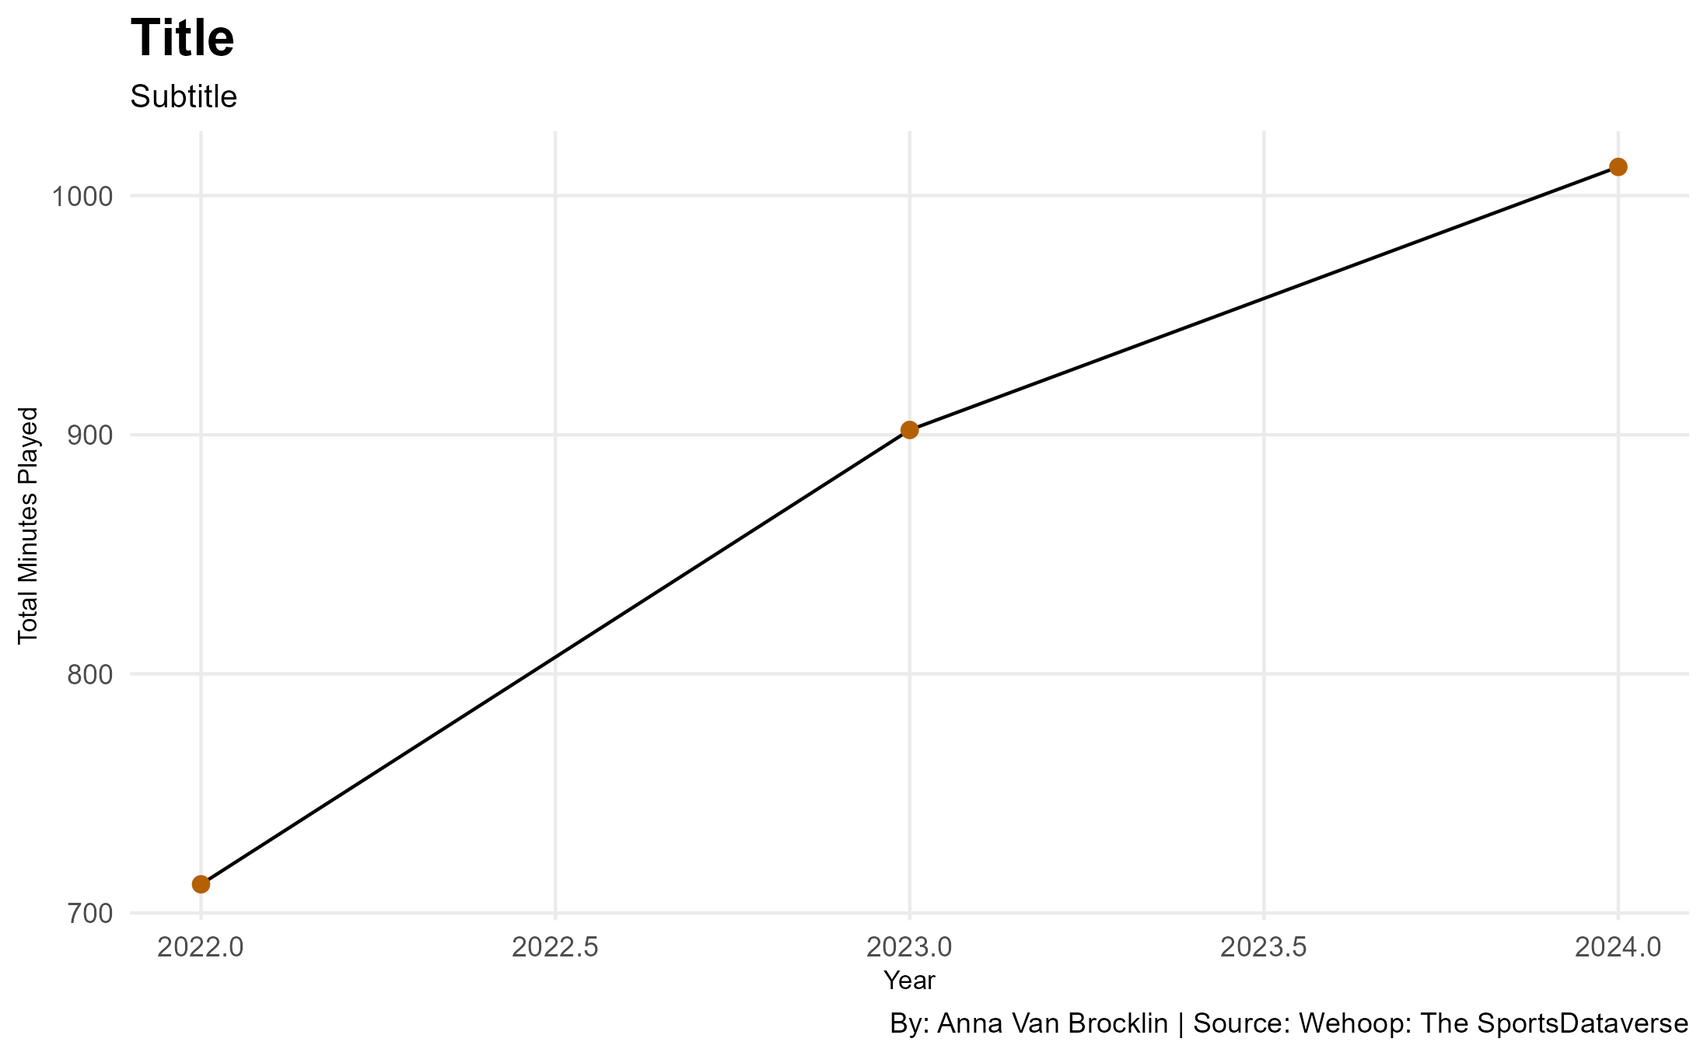
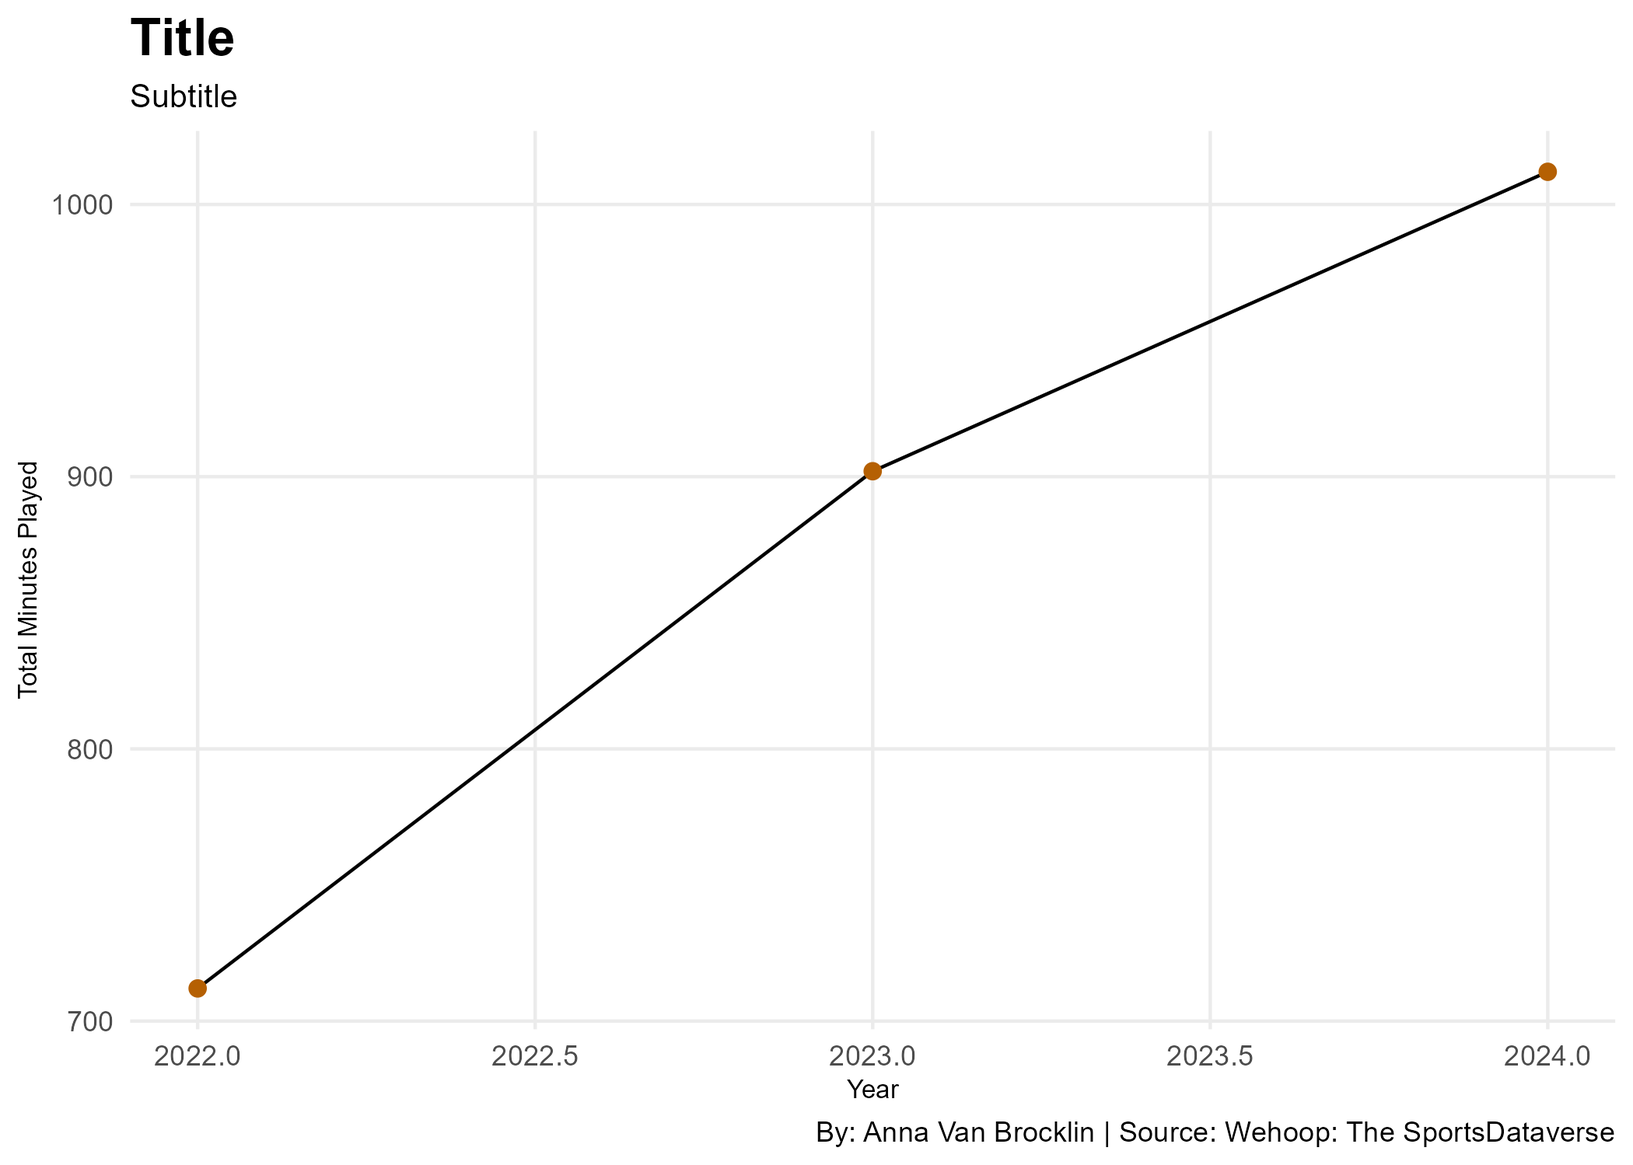
updates

diff --git a/posts/alexis-markowski-performance-nebraska-basketball/index.html b/posts/alexis-markowski-performance-nebraska-basketball/index.html
@@ -196,28 +196,167 @@ pre > code.sourceCode > span > a:first-child::before { text-decoration: underlin
 
 
 
-<div class="cell">
-<details class="code-fold">
-<summary>Code</summary>
-<div class="sourceCode cell-code" id="cb1"><pre class="sourceCode r code-with-copy"><code class="sourceCode r"><span id="cb1-1"><a href="#cb1-1" aria-hidden="true" tabindex="-1"></a><span class="fu">library</span>(tidyverse)</span></code><button title="Copy to Clipboard" class="code-copy-button"><i class="bi"></i></button></pre></div>
-</details>
-</div>
-<div class="cell">
-<details class="code-fold">
-<summary>Code</summary>
-<div class="sourceCode cell-code" id="cb2"><pre class="sourceCode r code-with-copy"><code class="sourceCode r"><span id="cb2-1"><a href="#cb2-1" aria-hidden="true" tabindex="-1"></a><span class="co">#data here &lt;- read_csv("")</span></span></code><button title="Copy to Clipboard" class="code-copy-button"><i class="bi"></i></button></pre></div>
-</details>
-</div>
 <p>Here is some story text.</p>
 <div class="cell">
 <details class="code-fold">
 <summary>Code</summary>
-<div class="sourceCode cell-code" id="cb3"><pre class="sourceCode r code-with-copy"><code class="sourceCode r"><span id="cb3-1"><a href="#cb3-1" aria-hidden="true" tabindex="-1"></a><span class="co">#first graphic here</span></span>
-<span id="cb3-2"><a href="#cb3-2" aria-hidden="true" tabindex="-1"></a></span>
-<span id="cb3-3"><a href="#cb3-3" aria-hidden="true" tabindex="-1"></a><span class="fu">ggsave</span>(<span class="st">"image.png"</span>)</span></code><button title="Copy to Clipboard" class="code-copy-button"><i class="bi"></i></button></pre></div>
+<div class="sourceCode cell-code" id="cb1"><pre class="sourceCode r code-with-copy"><code class="sourceCode r"><span id="cb1-1"><a href="#cb1-1" aria-hidden="true" tabindex="-1"></a><span class="fu">library</span>(tidyverse)</span>
+<span id="cb1-2"><a href="#cb1-2" aria-hidden="true" tabindex="-1"></a><span class="fu">library</span>(wehoop)</span></code><button title="Copy to Clipboard" class="code-copy-button"><i class="bi"></i></button></pre></div>
 </details>
 </div>
-<p>More writing here.</p>
+<div class="cell">
+<details class="code-fold">
+<summary>Code</summary>
+<div class="sourceCode cell-code" id="cb2"><pre class="sourceCode r code-with-copy"><code class="sourceCode r"><span id="cb2-1"><a href="#cb2-1" aria-hidden="true" tabindex="-1"></a>markowski_id <span class="ot">&lt;-</span> <span class="dv">4899057</span>  </span>
+<span id="cb2-2"><a href="#cb2-2" aria-hidden="true" tabindex="-1"></a></span>
+<span id="cb2-3"><a href="#cb2-3" aria-hidden="true" tabindex="-1"></a>get_markowski_stats <span class="ot">&lt;-</span> <span class="cf">function</span>(year, season_type) {</span>
+<span id="cb2-4"><a href="#cb2-4" aria-hidden="true" tabindex="-1"></a>  <span class="fu">espn_wbb_player_stats</span>(<span class="at">athlete_id =</span> markowski_id, <span class="at">year =</span> year, <span class="at">season_type =</span> season_type, <span class="at">total =</span> <span class="cn">TRUE</span>)</span>
+<span id="cb2-5"><a href="#cb2-5" aria-hidden="true" tabindex="-1"></a>}</span>
+<span id="cb2-6"><a href="#cb2-6" aria-hidden="true" tabindex="-1"></a></span>
+<span id="cb2-7"><a href="#cb2-7" aria-hidden="true" tabindex="-1"></a>markowski_stats_2022 <span class="ot">&lt;-</span> <span class="fu">get_markowski_stats</span>(<span class="dv">2022</span>, <span class="st">"regular"</span>)</span>
+<span id="cb2-8"><a href="#cb2-8" aria-hidden="true" tabindex="-1"></a>markowski_stats_2023 <span class="ot">&lt;-</span> <span class="fu">get_markowski_stats</span>(<span class="dv">2023</span>, <span class="st">"regular"</span>)</span>
+<span id="cb2-9"><a href="#cb2-9" aria-hidden="true" tabindex="-1"></a>markowski_stats_2024 <span class="ot">&lt;-</span> <span class="fu">get_markowski_stats</span>(<span class="dv">2024</span>, <span class="st">"regular"</span>)</span>
+<span id="cb2-10"><a href="#cb2-10" aria-hidden="true" tabindex="-1"></a></span>
+<span id="cb2-11"><a href="#cb2-11" aria-hidden="true" tabindex="-1"></a>markowski_all_stats <span class="ot">&lt;-</span> <span class="fu">rbind</span>(markowski_stats_2022, markowski_stats_2023, markowski_stats_2024)</span>
+<span id="cb2-12"><a href="#cb2-12" aria-hidden="true" tabindex="-1"></a></span>
+<span id="cb2-13"><a href="#cb2-13" aria-hidden="true" tabindex="-1"></a>markowski_all_stats<span class="sc">$</span>year <span class="ot">&lt;-</span> <span class="fu">c</span>(<span class="fu">rep</span>(<span class="dv">2022</span>, <span class="fu">nrow</span>(markowski_stats_2022)),</span>
+<span id="cb2-14"><a href="#cb2-14" aria-hidden="true" tabindex="-1"></a>                              <span class="fu">rep</span>(<span class="dv">2023</span>, <span class="fu">nrow</span>(markowski_stats_2023)),</span>
+<span id="cb2-15"><a href="#cb2-15" aria-hidden="true" tabindex="-1"></a>                              <span class="fu">rep</span>(<span class="dv">2024</span>, <span class="fu">nrow</span>(markowski_stats_2024)))</span></code><button title="Copy to Clipboard" class="code-copy-button"><i class="bi"></i></button></pre></div>
+</details>
+</div>
+<div class="cell">
+<details class="code-fold">
+<summary>Code</summary>
+<div class="sourceCode cell-code" id="cb3"><pre class="sourceCode r code-with-copy"><code class="sourceCode r"><span id="cb3-1"><a href="#cb3-1" aria-hidden="true" tabindex="-1"></a><span class="fu">ggplot</span>(markowski_all_stats, <span class="fu">aes</span>(<span class="at">x =</span> year, <span class="at">y =</span> general_minutes)) <span class="sc">+</span></span>
+<span id="cb3-2"><a href="#cb3-2" aria-hidden="true" tabindex="-1"></a>  <span class="fu">geom_line</span>() <span class="sc">+</span></span>
+<span id="cb3-3"><a href="#cb3-3" aria-hidden="true" tabindex="-1"></a>  <span class="fu">geom_point</span>(<span class="at">size=</span><span class="dv">2</span>, <span class="at">color=</span><span class="st">"#B56003"</span>) <span class="sc">+</span></span>
+<span id="cb3-4"><a href="#cb3-4" aria-hidden="true" tabindex="-1"></a>  <span class="fu">labs</span>(<span class="at">x =</span> <span class="st">"Year"</span>, <span class="at">y =</span> <span class="st">"Total Minutes Played"</span>) <span class="sc">+</span></span>
+<span id="cb3-5"><a href="#cb3-5" aria-hidden="true" tabindex="-1"></a>  <span class="fu">labs</span>(</span>
+<span id="cb3-6"><a href="#cb3-6" aria-hidden="true" tabindex="-1"></a>    <span class="at">title =</span> <span class="st">"Title"</span>,</span>
+<span id="cb3-7"><a href="#cb3-7" aria-hidden="true" tabindex="-1"></a>    <span class="at">subtitle =</span> <span class="st">"Subtitle"</span>,</span>
+<span id="cb3-8"><a href="#cb3-8" aria-hidden="true" tabindex="-1"></a>    <span class="at">caption =</span> <span class="st">"By: Anna Van Brocklin | Source: Wehoop: The SportsDataverse"</span>,</span>
+<span id="cb3-9"><a href="#cb3-9" aria-hidden="true" tabindex="-1"></a>  ) <span class="sc">+</span></span>
+<span id="cb3-10"><a href="#cb3-10" aria-hidden="true" tabindex="-1"></a>  <span class="fu">theme_minimal</span>() <span class="sc">+</span></span>
+<span id="cb3-11"><a href="#cb3-11" aria-hidden="true" tabindex="-1"></a>  <span class="fu">theme</span>(</span>
+<span id="cb3-12"><a href="#cb3-12" aria-hidden="true" tabindex="-1"></a>    <span class="at">plot.title =</span> <span class="fu">element_text</span>(<span class="at">size =</span> <span class="dv">16</span>, <span class="at">face =</span> <span class="st">"bold"</span>),</span>
+<span id="cb3-13"><a href="#cb3-13" aria-hidden="true" tabindex="-1"></a>    <span class="at">axis.title =</span> <span class="fu">element_text</span>(<span class="at">size =</span> <span class="dv">8</span>),</span>
+<span id="cb3-14"><a href="#cb3-14" aria-hidden="true" tabindex="-1"></a>    <span class="at">plot.subtitle =</span> <span class="fu">element_text</span>(<span class="at">size =</span> <span class="dv">10</span>),</span>
+<span id="cb3-15"><a href="#cb3-15" aria-hidden="true" tabindex="-1"></a>    <span class="at">panel.grid.minor =</span> <span class="fu">element_blank</span>()</span>
+<span id="cb3-16"><a href="#cb3-16" aria-hidden="true" tabindex="-1"></a>  )</span></code><button title="Copy to Clipboard" class="code-copy-button"><i class="bi"></i></button></pre></div>
+</details>
+<div class="cell-output-display">
+<div>
+<figure class="figure">
+<p><img src="index_files/figure-html/unnamed-chunk-3-1.png" class="img-fluid figure-img" width="672"></p>
+</figure>
+</div>
+</div>
+<details class="code-fold">
+<summary>Code</summary>
+<div class="sourceCode cell-code" id="cb4"><pre class="sourceCode r code-with-copy"><code class="sourceCode r"><span id="cb4-1"><a href="#cb4-1" aria-hidden="true" tabindex="-1"></a><span class="fu">ggsave</span>(<span class="st">"image.png"</span>)</span>
+<span id="cb4-2"><a href="#cb4-2" aria-hidden="true" tabindex="-1"></a><span class="co">#| message: false</span></span>
+<span id="cb4-3"><a href="#cb4-3" aria-hidden="true" tabindex="-1"></a><span class="co">#| warning: false</span></span></code><button title="Copy to Clipboard" class="code-copy-button"><i class="bi"></i></button></pre></div>
+</details>
+</div>
+<div class="cell">
+<details class="code-fold">
+<summary>Code</summary>
+<div class="sourceCode cell-code" id="cb5"><pre class="sourceCode r code-with-copy"><code class="sourceCode r"><span id="cb5-1"><a href="#cb5-1" aria-hidden="true" tabindex="-1"></a><span class="fu">ggplot</span>(markowski_all_stats, <span class="fu">aes</span>(<span class="at">x =</span> year, <span class="at">y =</span> offensive_points)) <span class="sc">+</span></span>
+<span id="cb5-2"><a href="#cb5-2" aria-hidden="true" tabindex="-1"></a>  <span class="fu">geom_line</span>() <span class="sc">+</span></span>
+<span id="cb5-3"><a href="#cb5-3" aria-hidden="true" tabindex="-1"></a>  <span class="fu">geom_point</span>(<span class="at">size=</span><span class="dv">2</span>, <span class="at">color=</span><span class="st">"#B56003"</span>) <span class="sc">+</span></span>
+<span id="cb5-4"><a href="#cb5-4" aria-hidden="true" tabindex="-1"></a>  <span class="fu">labs</span>(<span class="at">x =</span> <span class="st">"Year"</span>, <span class="at">y =</span> <span class="st">"Total Points Scored"</span>) <span class="sc">+</span></span>
+<span id="cb5-5"><a href="#cb5-5" aria-hidden="true" tabindex="-1"></a>  <span class="fu">labs</span>(</span>
+<span id="cb5-6"><a href="#cb5-6" aria-hidden="true" tabindex="-1"></a>    <span class="at">title =</span> <span class="st">"Title"</span>,</span>
+<span id="cb5-7"><a href="#cb5-7" aria-hidden="true" tabindex="-1"></a>    <span class="at">subtitle =</span> <span class="st">"Subtitle"</span>,</span>
+<span id="cb5-8"><a href="#cb5-8" aria-hidden="true" tabindex="-1"></a>    <span class="at">caption =</span> <span class="st">"By: Anna Van Brocklin | Source: Wehoop: The SportsDataverse"</span></span>
+<span id="cb5-9"><a href="#cb5-9" aria-hidden="true" tabindex="-1"></a>  ) <span class="sc">+</span></span>
+<span id="cb5-10"><a href="#cb5-10" aria-hidden="true" tabindex="-1"></a>  <span class="fu">theme_minimal</span>() <span class="sc">+</span></span>
+<span id="cb5-11"><a href="#cb5-11" aria-hidden="true" tabindex="-1"></a>  <span class="fu">theme</span>(</span>
+<span id="cb5-12"><a href="#cb5-12" aria-hidden="true" tabindex="-1"></a>    <span class="at">plot.title =</span> <span class="fu">element_text</span>(<span class="at">size =</span> <span class="dv">16</span>, <span class="at">face =</span> <span class="st">"bold"</span>),</span>
+<span id="cb5-13"><a href="#cb5-13" aria-hidden="true" tabindex="-1"></a>    <span class="at">axis.title =</span> <span class="fu">element_text</span>(<span class="at">size =</span> <span class="dv">8</span>),</span>
+<span id="cb5-14"><a href="#cb5-14" aria-hidden="true" tabindex="-1"></a>    <span class="at">plot.subtitle =</span> <span class="fu">element_text</span>(<span class="at">size =</span> <span class="dv">10</span>),</span>
+<span id="cb5-15"><a href="#cb5-15" aria-hidden="true" tabindex="-1"></a>    <span class="at">panel.grid.minor =</span> <span class="fu">element_blank</span>()</span>
+<span id="cb5-16"><a href="#cb5-16" aria-hidden="true" tabindex="-1"></a>  )</span></code><button title="Copy to Clipboard" class="code-copy-button"><i class="bi"></i></button></pre></div>
+</details>
+<div class="cell-output-display">
+<div>
+<figure class="figure">
+<p><img src="index_files/figure-html/unnamed-chunk-4-1.png" class="img-fluid figure-img" width="672"></p>
+</figure>
+</div>
+</div>
+</div>
+<div class="cell">
+<details class="code-fold">
+<summary>Code</summary>
+<div class="sourceCode cell-code" id="cb6"><pre class="sourceCode r code-with-copy"><code class="sourceCode r"><span id="cb6-1"><a href="#cb6-1" aria-hidden="true" tabindex="-1"></a><span class="fu">ggplot</span>(markowski_all_stats, <span class="fu">aes</span>(<span class="at">x =</span> general_minutes, <span class="at">y =</span> offensive_points)) <span class="sc">+</span></span>
+<span id="cb6-2"><a href="#cb6-2" aria-hidden="true" tabindex="-1"></a>  <span class="fu">geom_point</span>(<span class="at">size =</span> <span class="dv">3</span>, <span class="at">color=</span><span class="st">"#B56003"</span>) <span class="sc">+</span>  </span>
+<span id="cb6-3"><a href="#cb6-3" aria-hidden="true" tabindex="-1"></a>  <span class="fu">facet_wrap</span>(<span class="sc">~</span>year) <span class="sc">+</span></span>
+<span id="cb6-4"><a href="#cb6-4" aria-hidden="true" tabindex="-1"></a>  <span class="fu">labs</span>(<span class="at">x =</span> <span class="st">"Total Minutes Played"</span>, <span class="at">y =</span> <span class="st">"Total Points Scored"</span>) <span class="sc">+</span> </span>
+<span id="cb6-5"><a href="#cb6-5" aria-hidden="true" tabindex="-1"></a>    <span class="fu">labs</span>(</span>
+<span id="cb6-6"><a href="#cb6-6" aria-hidden="true" tabindex="-1"></a>    <span class="at">title =</span> <span class="st">"Title"</span>,</span>
+<span id="cb6-7"><a href="#cb6-7" aria-hidden="true" tabindex="-1"></a>    <span class="at">subtitle =</span> <span class="st">"Subtitle"</span>,</span>
+<span id="cb6-8"><a href="#cb6-8" aria-hidden="true" tabindex="-1"></a>    <span class="at">caption =</span> <span class="st">"By: Anna Van Brocklin | Source: Wehoop: The SportsDataverse"</span></span>
+<span id="cb6-9"><a href="#cb6-9" aria-hidden="true" tabindex="-1"></a>  ) <span class="sc">+</span></span>
+<span id="cb6-10"><a href="#cb6-10" aria-hidden="true" tabindex="-1"></a>  <span class="fu">theme</span>(</span>
+<span id="cb6-11"><a href="#cb6-11" aria-hidden="true" tabindex="-1"></a>    <span class="at">plot.title =</span> <span class="fu">element_text</span>(<span class="at">size =</span> <span class="dv">16</span>, <span class="at">face =</span> <span class="st">"bold"</span>),</span>
+<span id="cb6-12"><a href="#cb6-12" aria-hidden="true" tabindex="-1"></a>    <span class="at">axis.title =</span> <span class="fu">element_text</span>(<span class="at">size =</span> <span class="dv">8</span>),</span>
+<span id="cb6-13"><a href="#cb6-13" aria-hidden="true" tabindex="-1"></a>    <span class="at">plot.subtitle =</span> <span class="fu">element_text</span>(<span class="at">size =</span> <span class="dv">10</span>),</span>
+<span id="cb6-14"><a href="#cb6-14" aria-hidden="true" tabindex="-1"></a>    <span class="at">panel.grid.minor =</span> <span class="fu">element_blank</span>()</span>
+<span id="cb6-15"><a href="#cb6-15" aria-hidden="true" tabindex="-1"></a>  )</span></code><button title="Copy to Clipboard" class="code-copy-button"><i class="bi"></i></button></pre></div>
+</details>
+<div class="cell-output-display">
+<div>
+<figure class="figure">
+<p><img src="index_files/figure-html/unnamed-chunk-5-1.png" class="img-fluid figure-img" width="672"></p>
+</figure>
+</div>
+</div>
+</div>
+<div class="cell">
+<details class="code-fold">
+<summary>Code</summary>
+<div class="sourceCode cell-code" id="cb7"><pre class="sourceCode r code-with-copy"><code class="sourceCode r"><span id="cb7-1"><a href="#cb7-1" aria-hidden="true" tabindex="-1"></a>markowski_long <span class="ot">&lt;-</span> markowski_all_stats <span class="sc">%&gt;%</span></span>
+<span id="cb7-2"><a href="#cb7-2" aria-hidden="true" tabindex="-1"></a>  <span class="fu">pivot_longer</span>(<span class="at">cols =</span> <span class="fu">c</span>(offensive_avg_points, offensive_avg_assists, defensive_avg_steals, defensive_avg_blocks, defensive_avg_defensive_rebounds),</span>
+<span id="cb7-3"><a href="#cb7-3" aria-hidden="true" tabindex="-1"></a>               <span class="at">names_to =</span> <span class="st">"category"</span>,</span>
+<span id="cb7-4"><a href="#cb7-4" aria-hidden="true" tabindex="-1"></a>               <span class="at">values_to =</span> <span class="st">"value"</span>)</span></code><button title="Copy to Clipboard" class="code-copy-button"><i class="bi"></i></button></pre></div>
+</details>
+</div>
+<div class="cell">
+<details class="code-fold">
+<summary>Code</summary>
+<div class="sourceCode cell-code" id="cb8"><pre class="sourceCode r code-with-copy"><code class="sourceCode r"><span id="cb8-1"><a href="#cb8-1" aria-hidden="true" tabindex="-1"></a><span class="fu">ggplot</span>(markowski_long, <span class="fu">aes</span>(<span class="at">x =</span> year, <span class="at">y =</span> value, <span class="at">fill =</span> category)) <span class="sc">+</span></span>
+<span id="cb8-2"><a href="#cb8-2" aria-hidden="true" tabindex="-1"></a>  <span class="fu">geom_col</span>(<span class="at">position =</span> <span class="st">"dodge"</span>) <span class="sc">+</span></span>
+<span id="cb8-3"><a href="#cb8-3" aria-hidden="true" tabindex="-1"></a>  <span class="fu">scale_fill_manual</span>(<span class="at">values =</span> <span class="fu">c</span>(<span class="st">"offensive_avg_points"</span> <span class="ot">=</span> <span class="st">"#B56003"</span>,</span>
+<span id="cb8-4"><a href="#cb8-4" aria-hidden="true" tabindex="-1"></a>                              <span class="st">"offensive_avg_assists"</span> <span class="ot">=</span> <span class="st">"#264356"</span>,</span>
+<span id="cb8-5"><a href="#cb8-5" aria-hidden="true" tabindex="-1"></a>                              <span class="st">"defensive_avg_steals"</span> <span class="ot">=</span> <span class="st">"#566750"</span>,</span>
+<span id="cb8-6"><a href="#cb8-6" aria-hidden="true" tabindex="-1"></a>                              <span class="st">"defensive_avg_blocks"</span> <span class="ot">=</span> <span class="st">"#CBDFBD"</span>,</span>
+<span id="cb8-7"><a href="#cb8-7" aria-hidden="true" tabindex="-1"></a>                              <span class="st">"defensive_avg_defensive_rebounds"</span> <span class="ot">=</span> <span class="st">"#F7A129"</span>),</span>
+<span id="cb8-8"><a href="#cb8-8" aria-hidden="true" tabindex="-1"></a>                    <span class="at">labels =</span> <span class="fu">c</span>(<span class="st">"Blocks"</span>, <span class="st">"Defensive Rebounds"</span>, <span class="st">"Steals"</span>, <span class="st">"Assists"</span>, <span class="st">"Points"</span>)) <span class="sc">+</span></span>
+<span id="cb8-9"><a href="#cb8-9" aria-hidden="true" tabindex="-1"></a>  <span class="fu">labs</span>(<span class="at">x =</span> <span class="st">"Year"</span>, <span class="at">y =</span> <span class="st">"Number"</span>, <span class="at">fill =</span> <span class="st">"Key"</span>) <span class="sc">+</span></span>
+<span id="cb8-10"><a href="#cb8-10" aria-hidden="true" tabindex="-1"></a>  <span class="fu">labs</span>(</span>
+<span id="cb8-11"><a href="#cb8-11" aria-hidden="true" tabindex="-1"></a>    <span class="at">title =</span> <span class="st">"Title"</span>,</span>
+<span id="cb8-12"><a href="#cb8-12" aria-hidden="true" tabindex="-1"></a>    <span class="at">subtitle =</span> <span class="st">"Subtitle"</span>,</span>
+<span id="cb8-13"><a href="#cb8-13" aria-hidden="true" tabindex="-1"></a>    <span class="at">caption =</span> <span class="st">"By: Anna Van Brocklin | Source: Wehoop: The SportsDataverse"</span>,</span>
+<span id="cb8-14"><a href="#cb8-14" aria-hidden="true" tabindex="-1"></a>    <span class="at">x =</span> <span class="st">"Year"</span>,</span>
+<span id="cb8-15"><a href="#cb8-15" aria-hidden="true" tabindex="-1"></a>    <span class="at">y =</span> <span class="st">"Average Totals"</span></span>
+<span id="cb8-16"><a href="#cb8-16" aria-hidden="true" tabindex="-1"></a>  ) <span class="sc">+</span></span>
+<span id="cb8-17"><a href="#cb8-17" aria-hidden="true" tabindex="-1"></a>  <span class="fu">theme_minimal</span>() <span class="sc">+</span></span>
+<span id="cb8-18"><a href="#cb8-18" aria-hidden="true" tabindex="-1"></a>  <span class="fu">theme</span>(</span>
+<span id="cb8-19"><a href="#cb8-19" aria-hidden="true" tabindex="-1"></a>    <span class="at">plot.title =</span> <span class="fu">element_text</span>(<span class="at">size =</span> <span class="dv">16</span>, <span class="at">face =</span> <span class="st">"bold"</span>),</span>
+<span id="cb8-20"><a href="#cb8-20" aria-hidden="true" tabindex="-1"></a>    <span class="at">axis.title =</span> <span class="fu">element_text</span>(<span class="at">size =</span> <span class="dv">8</span>),</span>
+<span id="cb8-21"><a href="#cb8-21" aria-hidden="true" tabindex="-1"></a>    <span class="at">plot.subtitle =</span> <span class="fu">element_text</span>(<span class="at">size =</span> <span class="dv">10</span>),</span>
+<span id="cb8-22"><a href="#cb8-22" aria-hidden="true" tabindex="-1"></a>    <span class="at">panel.grid.minor =</span> <span class="fu">element_blank</span>()</span>
+<span id="cb8-23"><a href="#cb8-23" aria-hidden="true" tabindex="-1"></a>  )</span></code><button title="Copy to Clipboard" class="code-copy-button"><i class="bi"></i></button></pre></div>
+</details>
+<div class="cell-output-display">
+<div>
+<figure class="figure">
+<p><img src="index_files/figure-html/unnamed-chunk-7-1.png" class="img-fluid figure-img" width="672"></p>
+</figure>
+</div>
+</div>
+</div>
 
 
 

diff --git a/index.html b/index.html
@@ -247,7 +247,7 @@ window.Quarto = {
 
 <div class="quarto-listing quarto-listing-container-default" id="listing-listing">
 <div class="list quarto-listing-default">
[2 lines of base64/hex data omitted]
 <div class="thumbnail">
 <p><a href="./posts/alexis-markowski-performance-nebraska-basketball/index.html" class="no-external"></a></p><a href="./posts/alexis-markowski-performance-nebraska-basketball/index.html" class="no-external">
 <p><img loading="lazy" src="./posts/alexis-markowski-performance-nebraska-basketball/image.png" class="thumbnail-image"></p>
